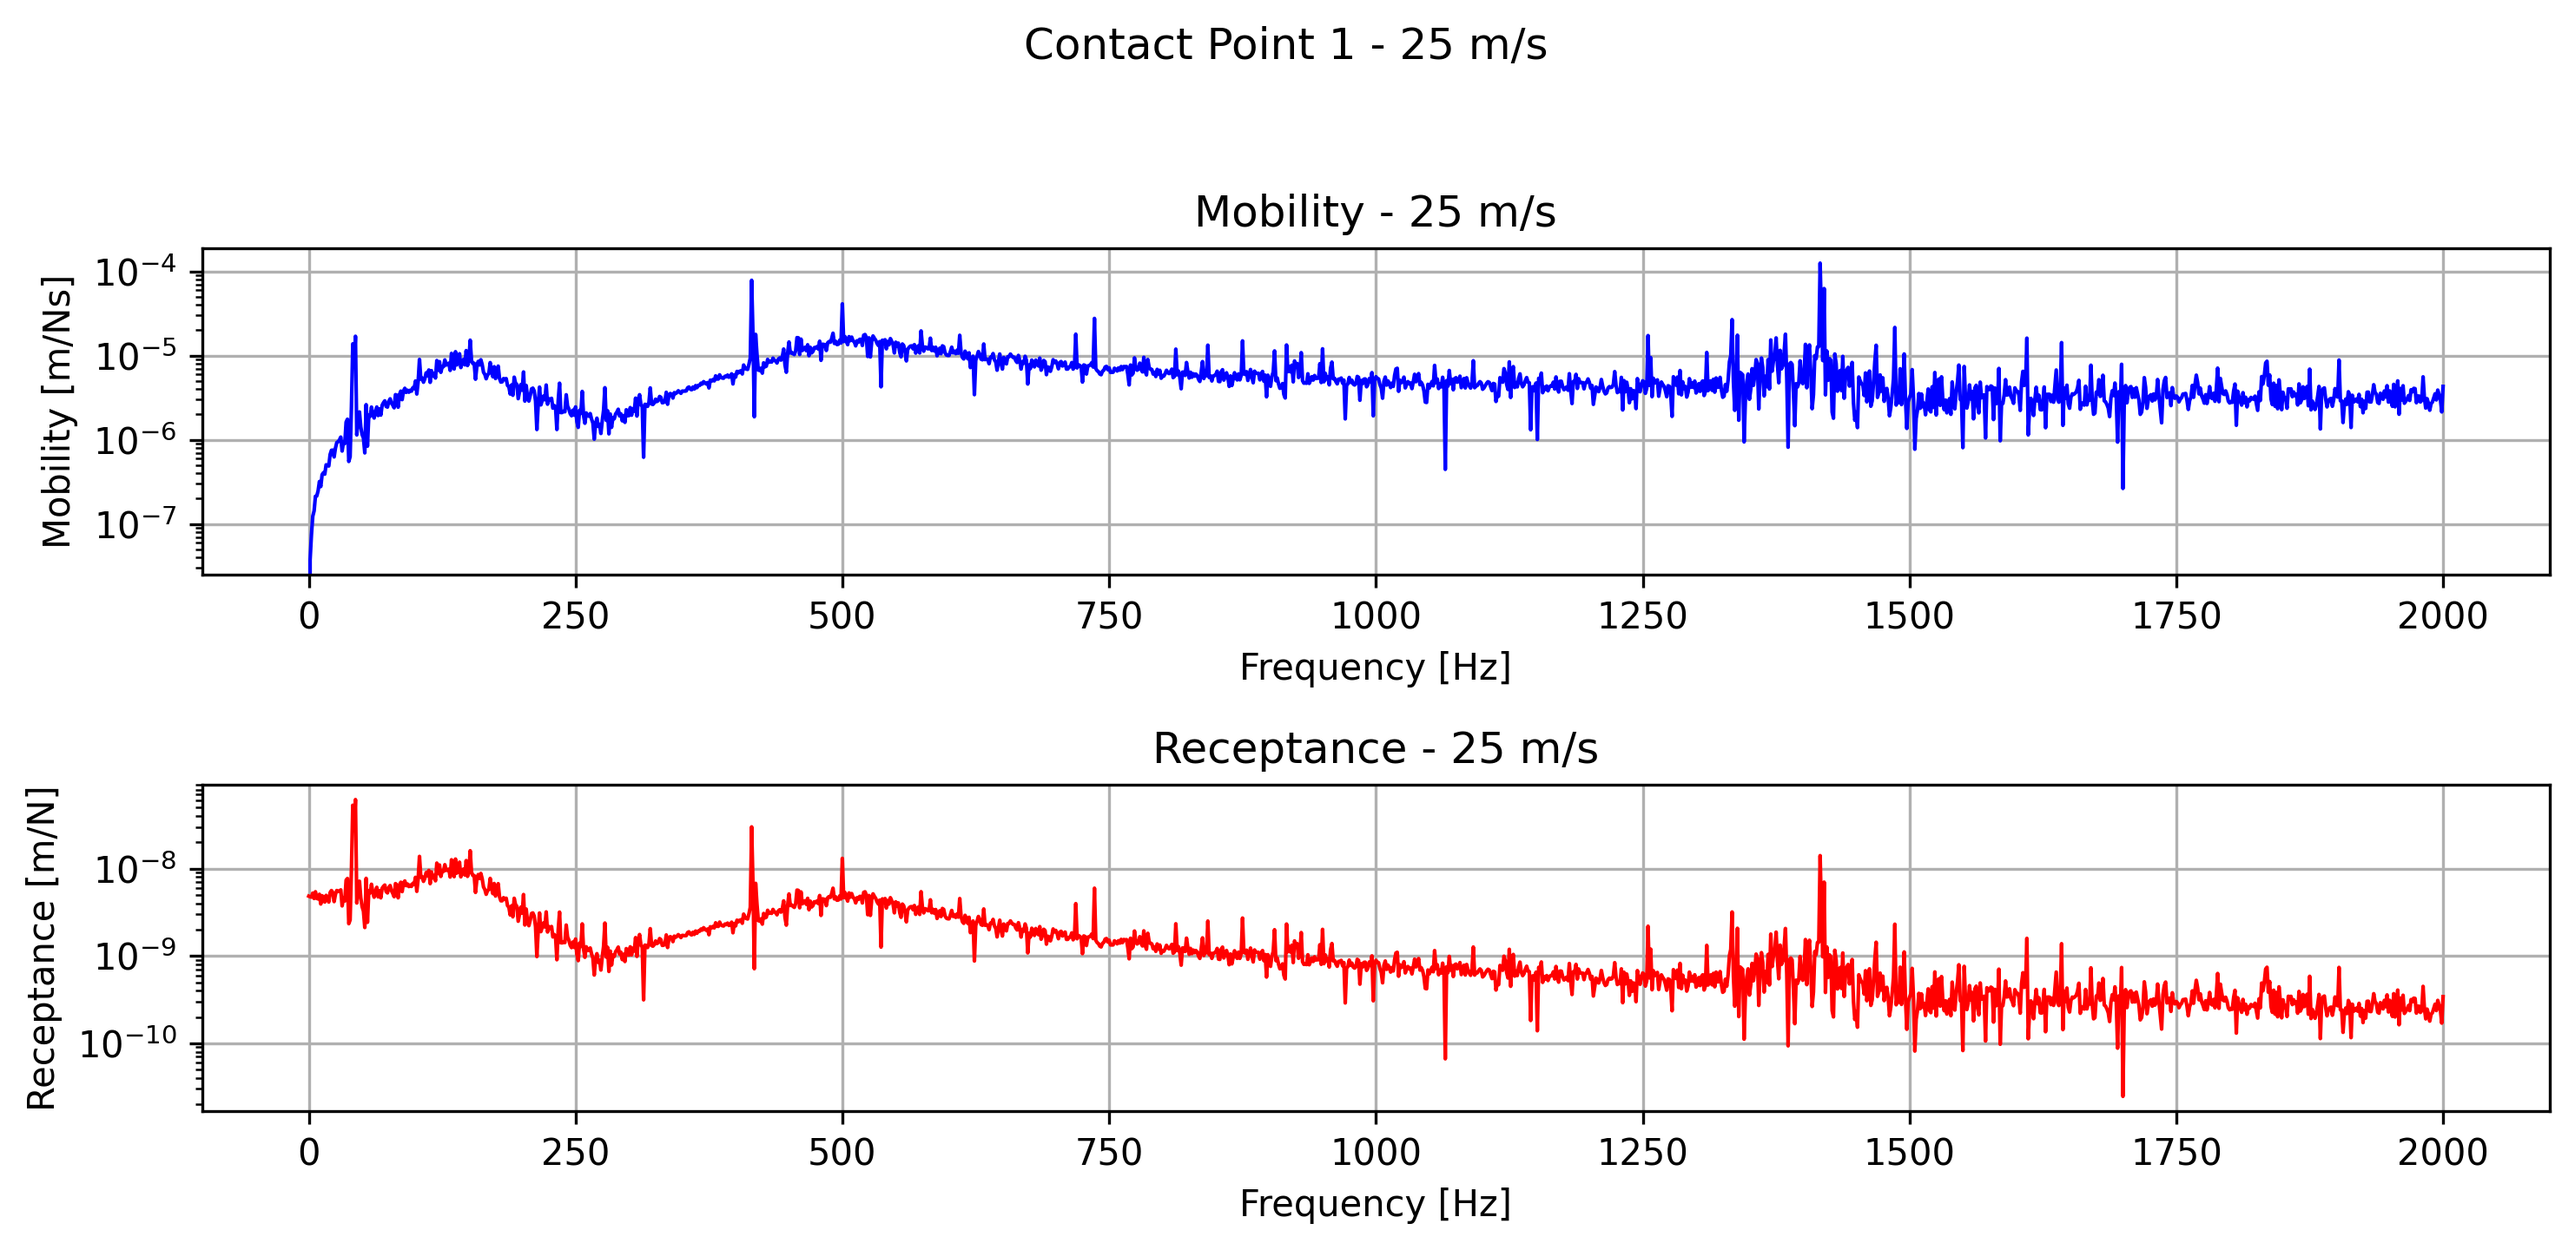
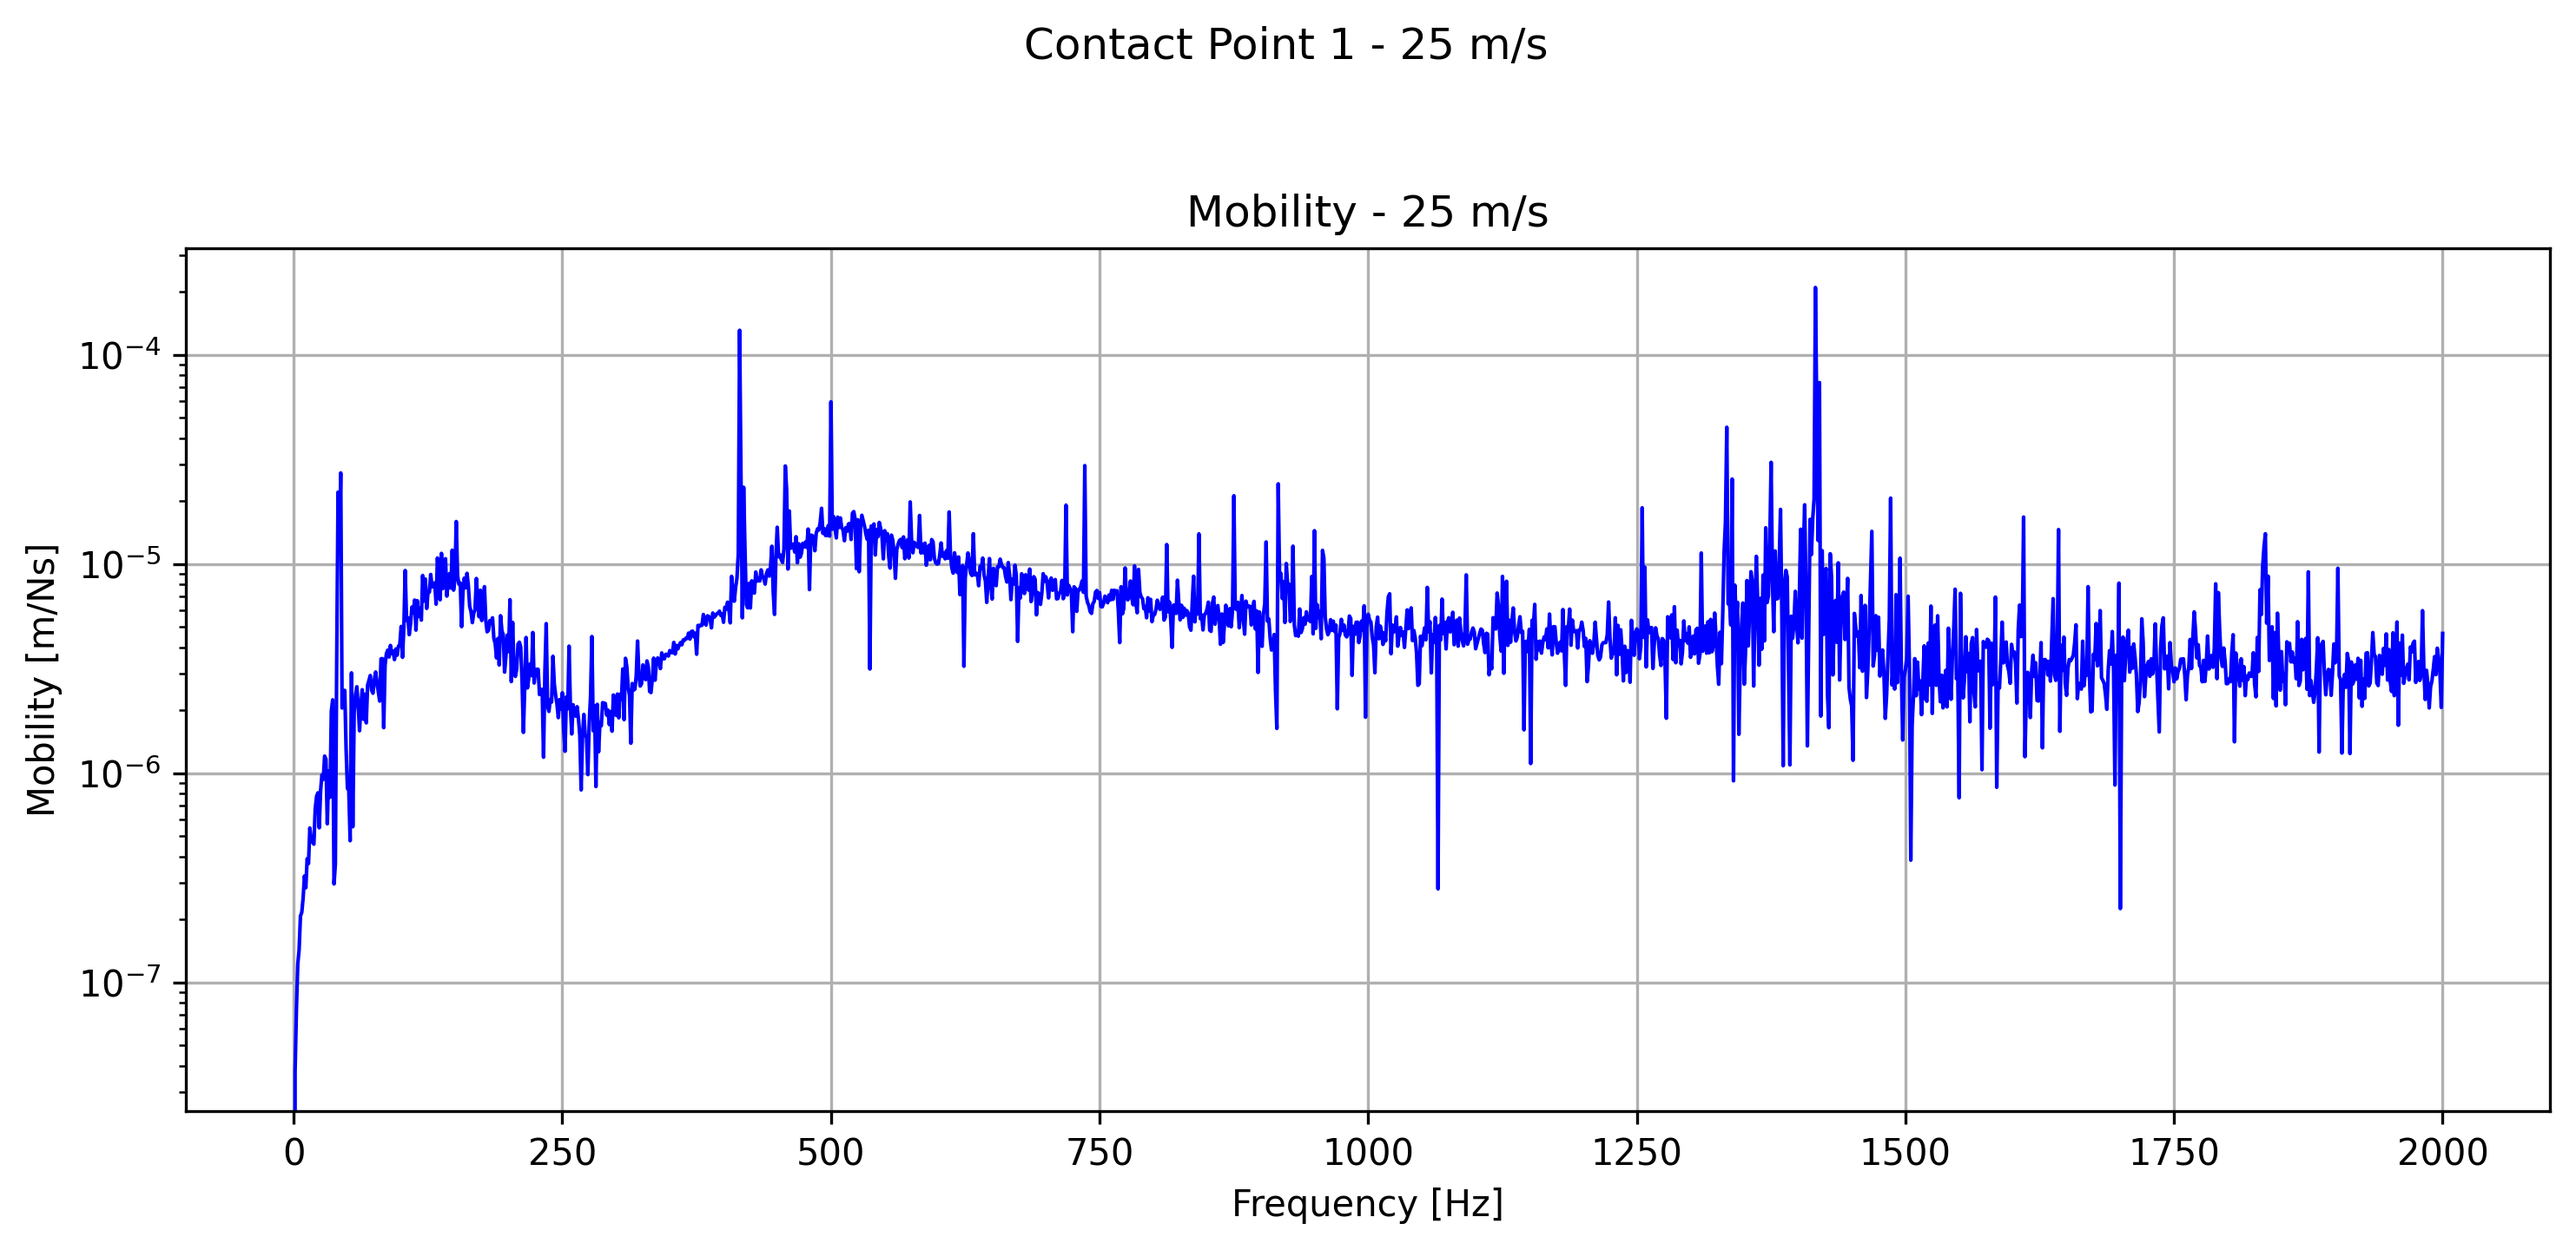
force doubled plots only showing receptance multiple runs in one plot Nordborg parameters implemented

diff --git a/Moving_Force.py b/Moving_Force.py
@@ -14,7 +14,7 @@ Workflow:
 
 # Import required components from Rolland library
 from rolland                        import DiscrPad, Sleeper, Ballast
-from rolland.database.rail.db_rail  import UIC60  # Standard rail profile
+from rolland.database.rail.db_rail  import UIC60, NORDBORG  # rail profiles
 from rolland                        import SimplePeriodicBallastedSingleRailTrack
 from rolland.excitation             import ConstantForce
 from rolland import(
@@ -37,30 +37,31 @@ import scipy
 store_deflection    = False     # TODO: this is not implemented yet!
 starting_position   = 80.0      # Starting position [m]
 num_mount           = 400       # Number of discrete mounting positions
-l_bound             = 40.0      # width of boundary domain
+l_bound             = 20.0      # width of boundary domain
 req_simt            = 1         # Required simulation time [s]
 dt                  = 2e-5      # time step [s]
-# velocities          = [60]      # Velocities to simulate [m/s]
-velocities          = np.arange(5, 101, 5)  # 5 to 100 m/s in 5 m/s steps
+velocities          = [25]      # Velocities to simulate [m/s]
+# velocities          = np.arange(5, 101, 5)  # 5 to 100 m/s in 5 m/s steps
 ramp_fraction       = 0.05       # fraction of total time for ramp up
-
+force_amplitude     = 65000.0    # Force amplitude [N]
 
 # =============================================================================
 # 1. TRACK DEFINITION
 # =============================================================================
 # Create a ballasted single rail track model with periodic supports
 track = SimplePeriodicBallastedSingleRailTrack(
-    rail    = UIC60,                # Standard UIC60 rail profile
+    # rail    = NORDBORG, # rail profile with parameters according to Nordborg paper
+    rail        = UIC60,   # UIC60 rail profile
     pad     = DiscrPad(
                 sp = [300e6, 0],    # Pad Stiffness [N/m]
-                dp = [18000, 0]     # Pad Damping [Ns/m]
-                # dp = [2*18000, 0]     # Pad Damping [Ns/m]
+                dp = [18000, 0],     # Pad Damping [Ns/m]
+                # eta_p = 0.15         # Pad loss factor [-]
     ),
     sleeper = Sleeper(ms=150),      # Sleeper mass [kg]
     ballast = Ballast(
                 sb = [150e6, 0],    # Ballast stiffness [N/m]
-                db = [48000, 0]     # Ballast damping [Ns/m]
-                # db = [2*48000, 0]     # Ballast damping [Ns/m]
+                db = [48000, 0],     # Ballast damping [Ns/m]
+                # eta_b = 0.4         # Ballast loss factor [-]
     ),
     num_mount   = num_mount,               # Number of discrete mounting positions
     distance    = 0.6                      # Distance between sleepers [m]
@@ -96,7 +97,7 @@ for vel in velocities:
         # x_excit         = [starting_position,
         #                    starting_position + 2.5],    # Starting positions [m]
         velocity        = float(vel),                   # Velocity [m/s]
-        force_amplitude = 65000.0                       # [N]
+        force_amplitude = force_amplitude                       # [N]
     )
 
     # Discretize domain
@@ -143,8 +144,9 @@ for vel in velocities:
         # Filter to 0-2000 Hz
         mask = (freqs >= 0) & (freqs <= 2000)
 
+        # Einzelplots
         plt.figure(figsize=(10, 5))
-        plt.subplot(2, 1, 1)
+        # plt.subplot(2, 1, 1)
         plt.plot(freqs[mask], np.abs(mobility[mask]), 'b-', linewidth=1)
         plt.xlabel('Frequency [Hz]')
         plt.ylabel('Mobility [m/Ns]')
@@ -152,18 +154,41 @@ for vel in velocities:
         plt.grid(True)
         plt.title(f'Mobility - {vel} m/s')
 
-        plt.subplot(2, 1, 2)
-        plt.plot(freqs[mask], np.abs(receptance[mask]), 'r-', linewidth=1)
-        plt.xlabel('Frequency [Hz]')
-        plt.ylabel('Receptance [m/N]')
-        plt.yscale('log')
-        plt.grid(True)
-        plt.title(f'Receptance - {vel} m/s')
+        # plt.subplot(2, 1, 2)
+        # plt.plot(freqs[mask], np.abs(receptance[mask]), 'r-', linewidth=1)
+        # plt.xlabel('Frequency [Hz]')
+        # plt.ylabel('Receptance [m/N]')
+        # plt.yscale('log')
+        # plt.grid(True)
+        # plt.title(f'Receptance - {vel} m/s')
 
         plt.suptitle(f'Contact Point {i+1} - {vel} m/s')
         plt.tight_layout(rect=[0, 0.03, 1, 0.95])
         plt.savefig(str(output_dir / f'mobility_receptance_v{vel:03d}_wheel{i+1}.png'), dpi=300, bbox_inches='tight')
         plt.close()
+
+        # Sammeln der Receptance für einen Gesamtplot (nur erster Kontaktpunkt)
+        try:
+            all_receptance
+        except NameError:
+            all_receptance = []  # Liste von (vel, freq_array, receptance_array)
+
+        if i == 0:
+            all_receptance.append((vel, freqs[mask], np.abs(receptance[mask])))
+
+        # Am Ende der letzten Geschwindigkeit: Gesamtplot aller Receptance-Kurven
+        if vel == velocities[-1] and i == 0:
+            plt.figure(figsize=(10, 5))
+            for v, f_arr, r_arr in all_receptance:
+                plt.plot(f_arr, r_arr, label=f'{v} m/s', linewidth=1)
+                plt.xlabel('Frequency [Hz]')
+                plt.ylabel('Receptance [m/N]')
+                plt.yscale('log')
+                plt.grid(True, which='both')
+                plt.legend()
+                plt.tight_layout()
+                plt.savefig(str(output_dir / 'receptance_all_velocities.png'), dpi=300, bbox_inches='tight')
+                plt.close()
 
     # Optional: Clear memory
     plt.close('all')

diff --git a/rolland/database/rail/db_rail.py b/rolland/database/rail/db_rail.py
@@ -36,9 +36,30 @@ def load_rail_geo(file_path):
         next(csvreader)  # Skip header
         return [(float(row[0]), float(row[1])) for row in csvreader]
 
+NORDBORG = Rail(
+    crl_geo=load_rail_geo(os.path.join(os.path.dirname(__file__), 'UIC60.csv')),
+    E=210e11,
+    G=81e9,
+    nu=0.3,
+    kap=[0.4, 0.54],
+    mr=60,
+    rho=7850,
+    etar=0.004,
+    fresr=1000,
+    dr=1000,
+    gamr=[0.0, 0.0],
+    epsr=[0.0, 34.8 * 10**-3],
+    Iyr=3038.30e-8,
+    Izr=512.30e-8,
+    Itr=209.20e-8,
+    Ipr=3550.60e-8,
+    Ar=76.70e-4,
+    Asr=0.688,
+    Vr=7670.00e-6,
+)
 
 UIC60 = Rail(
-    rl_geo=load_rail_geo(os.path.join(os.path.dirname(__file__), 'UIC60.csv')),
+    crl_geo=load_rail_geo(os.path.join(os.path.dirname(__file__), 'UIC60.csv')),
     E=210e9,
     G=81e9,
     nu=0.3,

diff --git a/rolland/excitation.py b/rolland/excitation.py
@@ -103,8 +103,8 @@ class ConstantForce(MovingExcitation):
         #     size    = n - self.ramp_length
         # )
         random_component = np.random.uniform(
-            low     = 0,
-            high    = self.force_amplitude,
+            low     = 1 * self.force_amplitude,
+            high    = 2 * self.force_amplitude,
             size    = n - self.ramp_length
         )
         constant_part = [self.force_amplitude] * (n - self.ramp_length)
